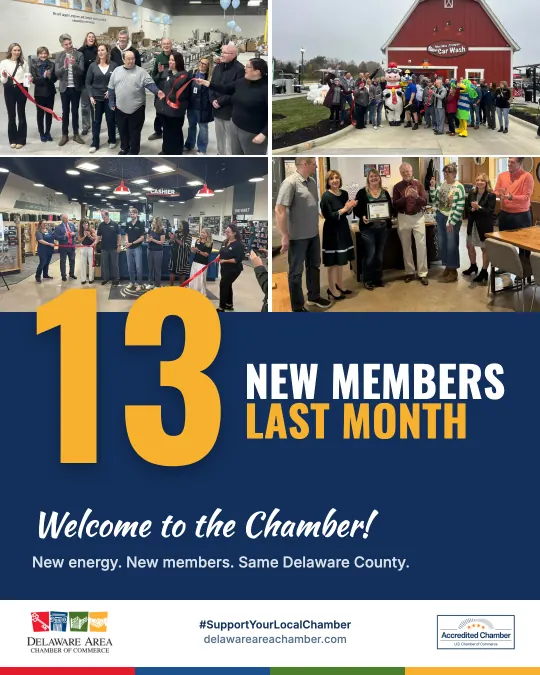
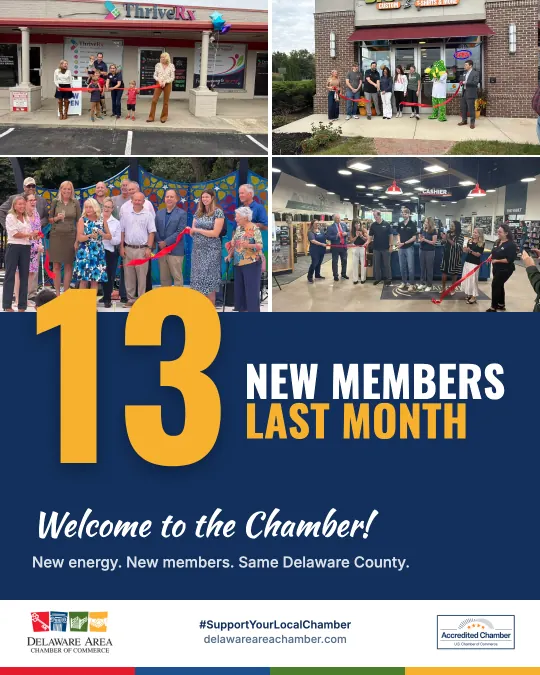
delaware-area-chamber/chamber-day: new photos in posts 3, 4a, 5; photo note updated (CLI-774, [JRO] · jaime-m3 · Conrad/Vegas)

diff --git a/delaware-area-chamber/chamber-day/index.html b/delaware-area-chamber/chamber-day/index.html
@@ -571,7 +571,7 @@ Rejoin by November 20 and get a free ad in our newsletter. Call <span class="now
     </div>
 
     <div class="callout gallery-note">
-      Photos are from the Chamber's own website. Send us newer ones (Business After Hours, the DCYP kickoff, recent ribbon cuttings) and we'll swap them in.
+      Photos are from the Chamber's own website and Facebook page. Send us any favorites and we'll swap them in.
     </div>
   </div>
 </section>
